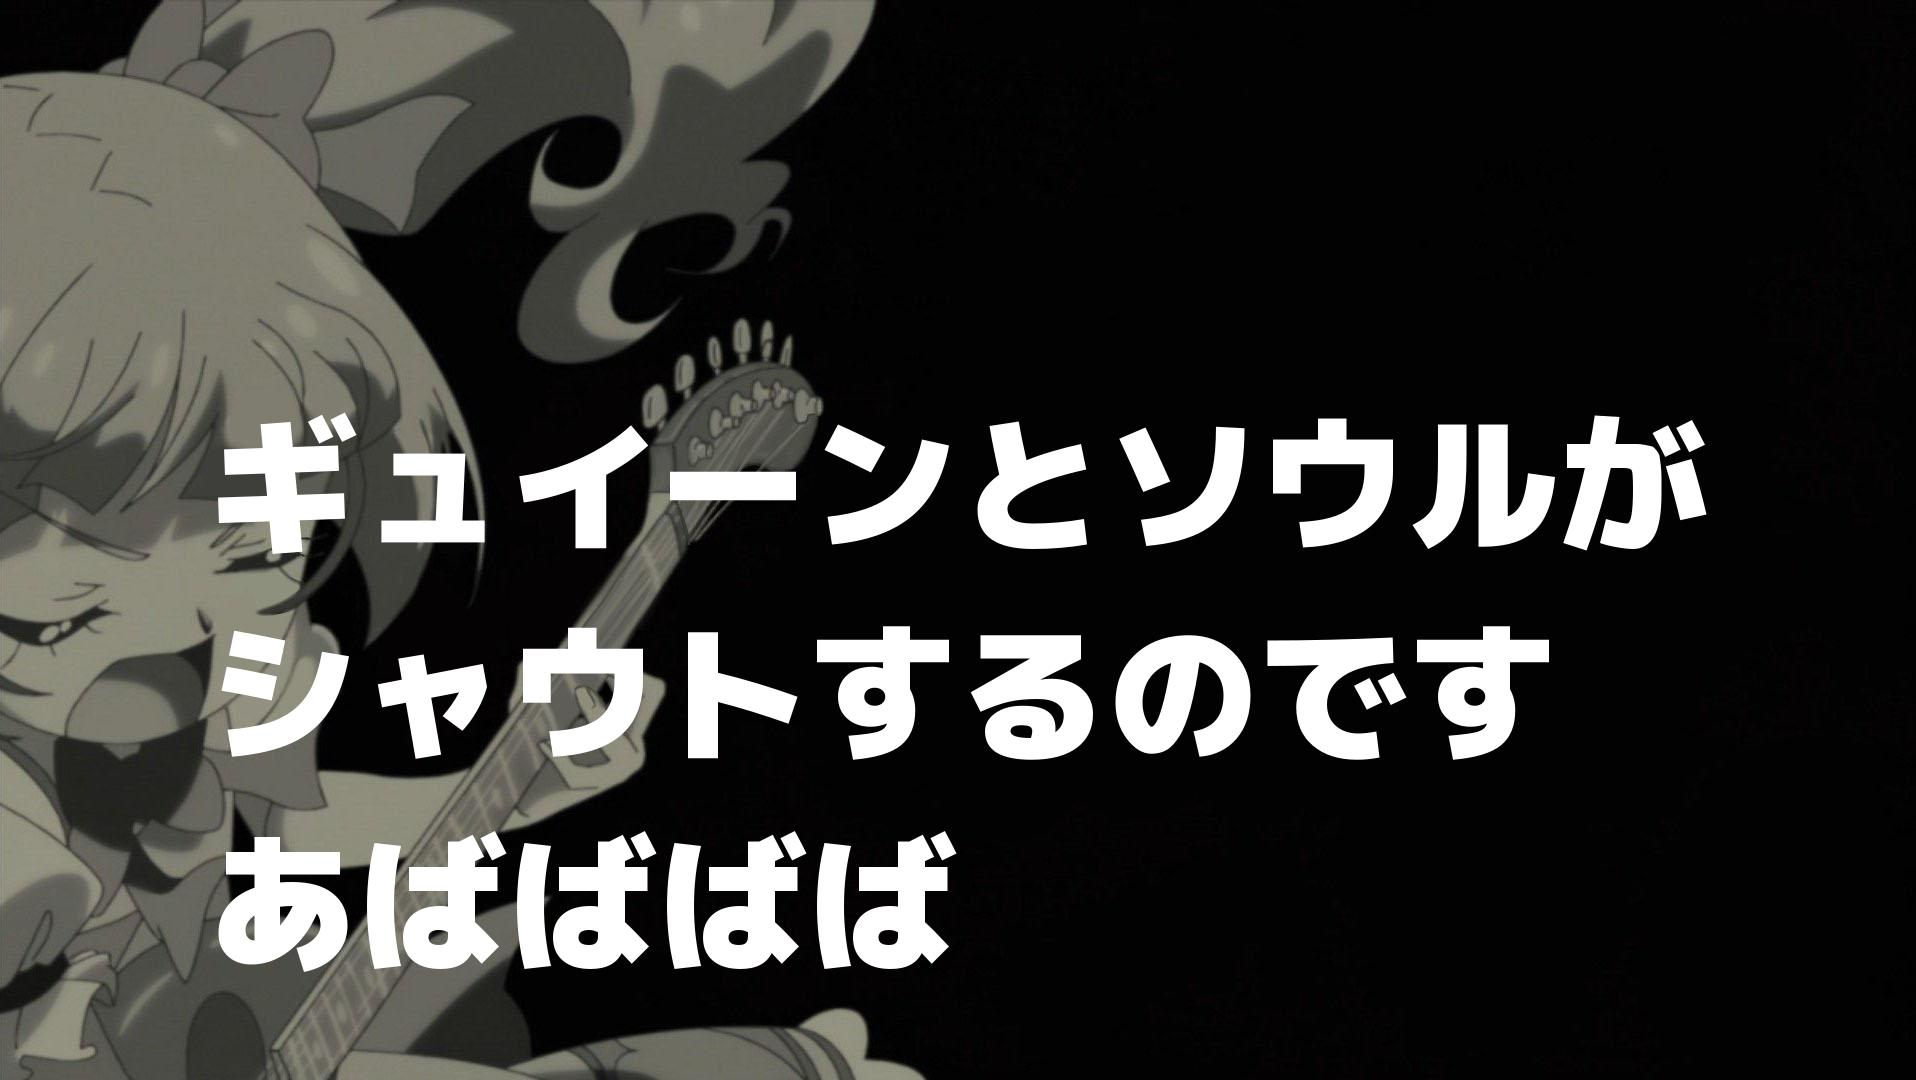
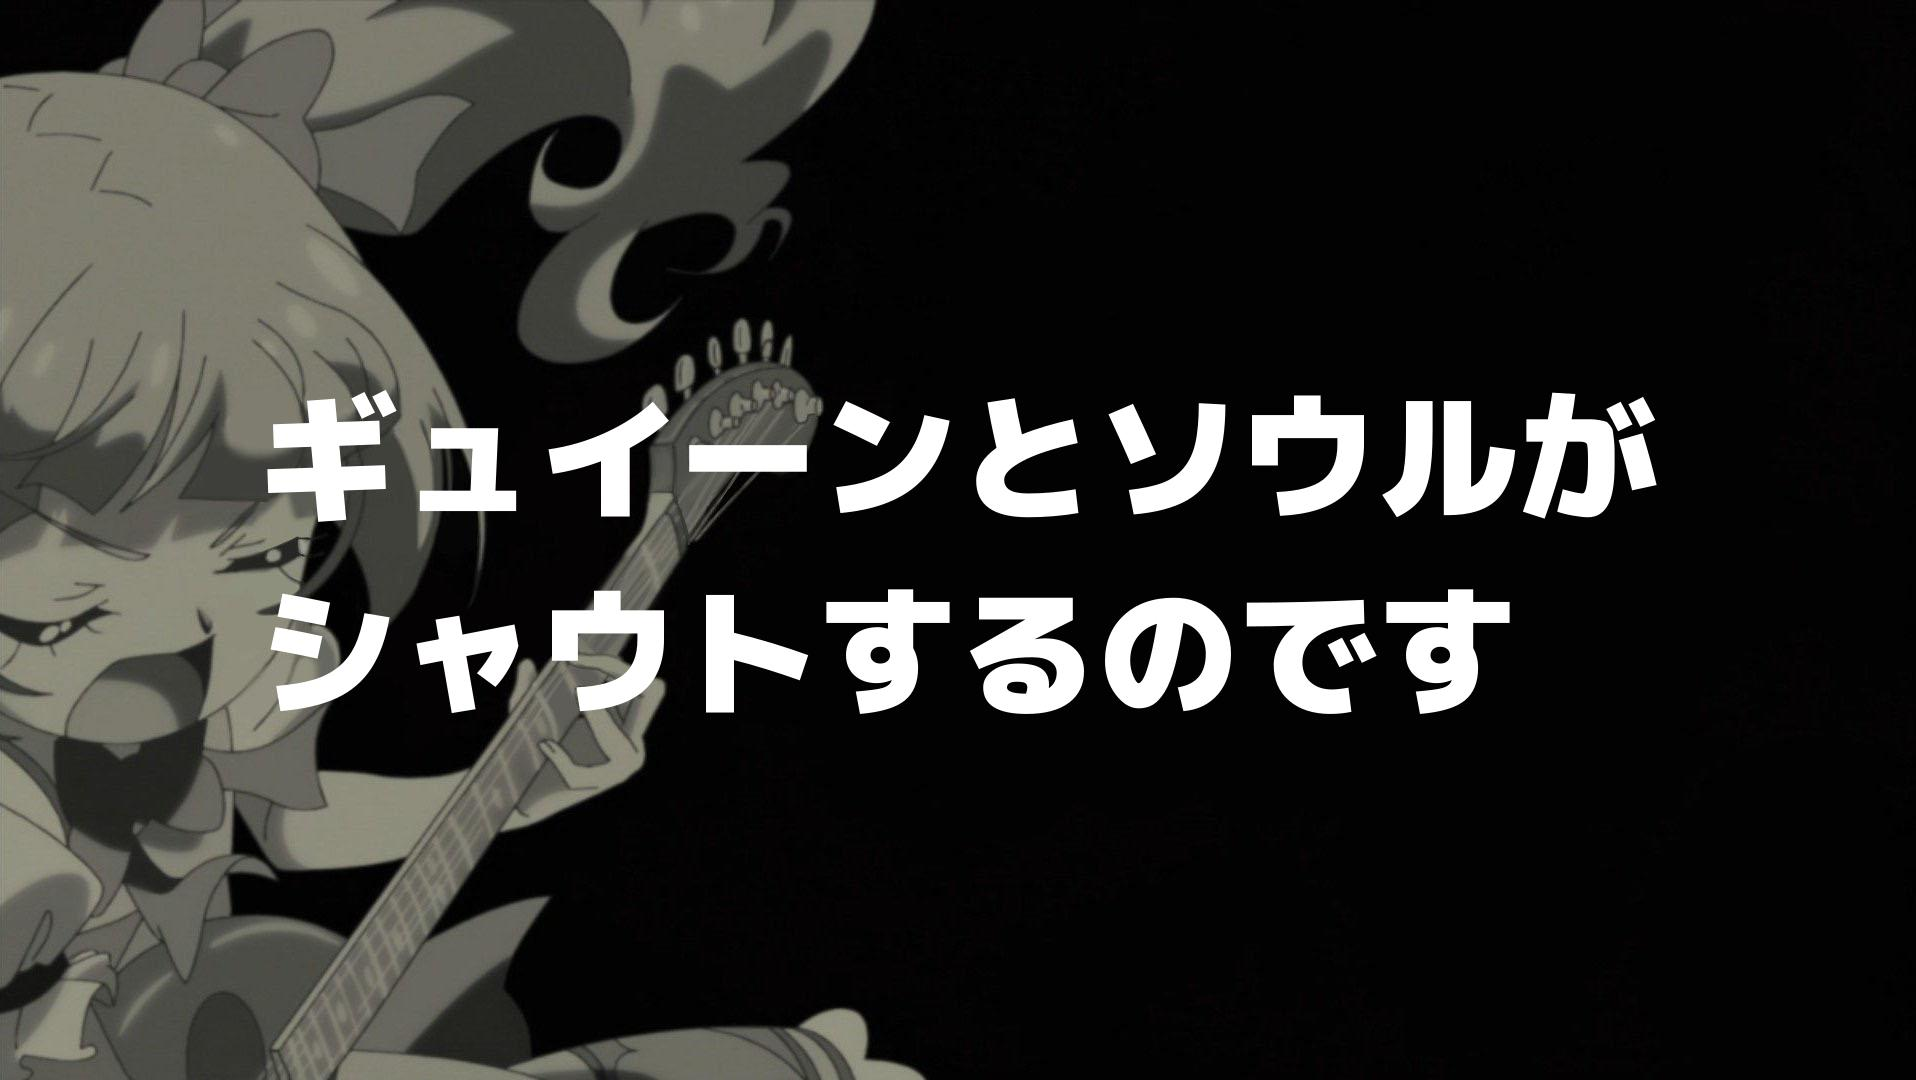
dynamic y offset

Changed region(s): [[0.0924, 0.3667, 0.893, 0.5194], [0.0924, 0.55, 0.8314, 0.7028], [0.0924, 0.7639, 0.5235, 0.9167]]

diff --git a/src/utils/ImageUtil.ts b/src/utils/ImageUtil.ts
@@ -15,10 +15,23 @@ export const ImageTextGenerator = (sourceImagePath: string, outImagePath: string
     ctx.drawImage(image, 0, 0, image.width, image.height);
 
     // draw text
-    ctx.font = '150px MPLUS1p';
+    const fontSize = 140;
+    ctx.font = `${fontSize}px MPLUS1p`;
     ctx.fillStyle = '#ffffff';
-    const textWidth = ctx.measureText(text).width;
-    ctx.fillText(text, (image.width - textWidth) / 2, image.height / 2);
+    ctx.textBaseline = 'middle';
+    const metric = ctx.measureText(text);
+    const textWidth = metric.width;
+    const textOffsetX = (image.width - textWidth) / 2; // horizontal center
+    const lineCount = (text.match(/\n/g) || []).length;
+    const textOffsetY = (image.height / 2) - lineCount * fontSize * 0.6;
+    // // testing
+    // ctx.beginPath();
+    // ctx.arc(textOffsetX, textOffsetY, 5, 0, Math.PI * 2, false);
+    // ctx.fillStyle = '#ff0000';
+    // ctx.fill();
+    // ctx.fillStyle = '#ffffff';
+    // // /testing
+    ctx.fillText(text, textOffsetX, textOffsetY);
 
     // save as jpeg
     canvas.createJPEGStream().pipe(fs.createWriteStream(assetPath(outImagePath)));

diff --git a/src/server.ts b/src/server.ts
@@ -22,5 +22,5 @@ app.use(router);
 
 server.listen(5000, () => {
   LoggerUtil.log(`App listening on ${config.DOMAIN_URL}`);
-  ImageController.generateEmiruImage('ギュイーンとソウルが\nシャウトするのです\nあばばばば');
+  ImageController.generateEmiruImage('ギュイーンとソウルが\nシャウトするのです');
 });
